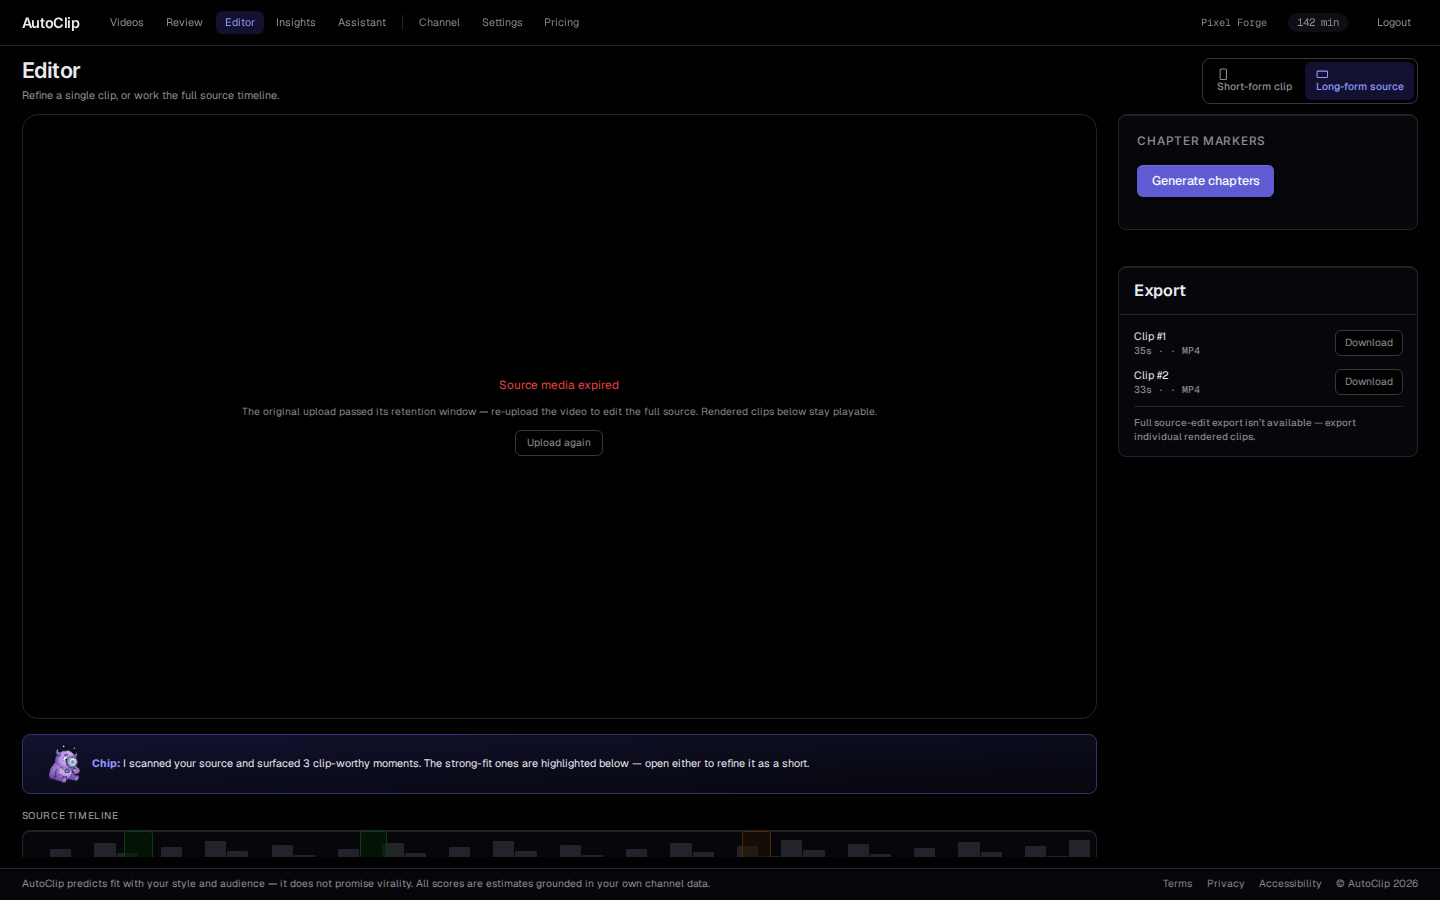
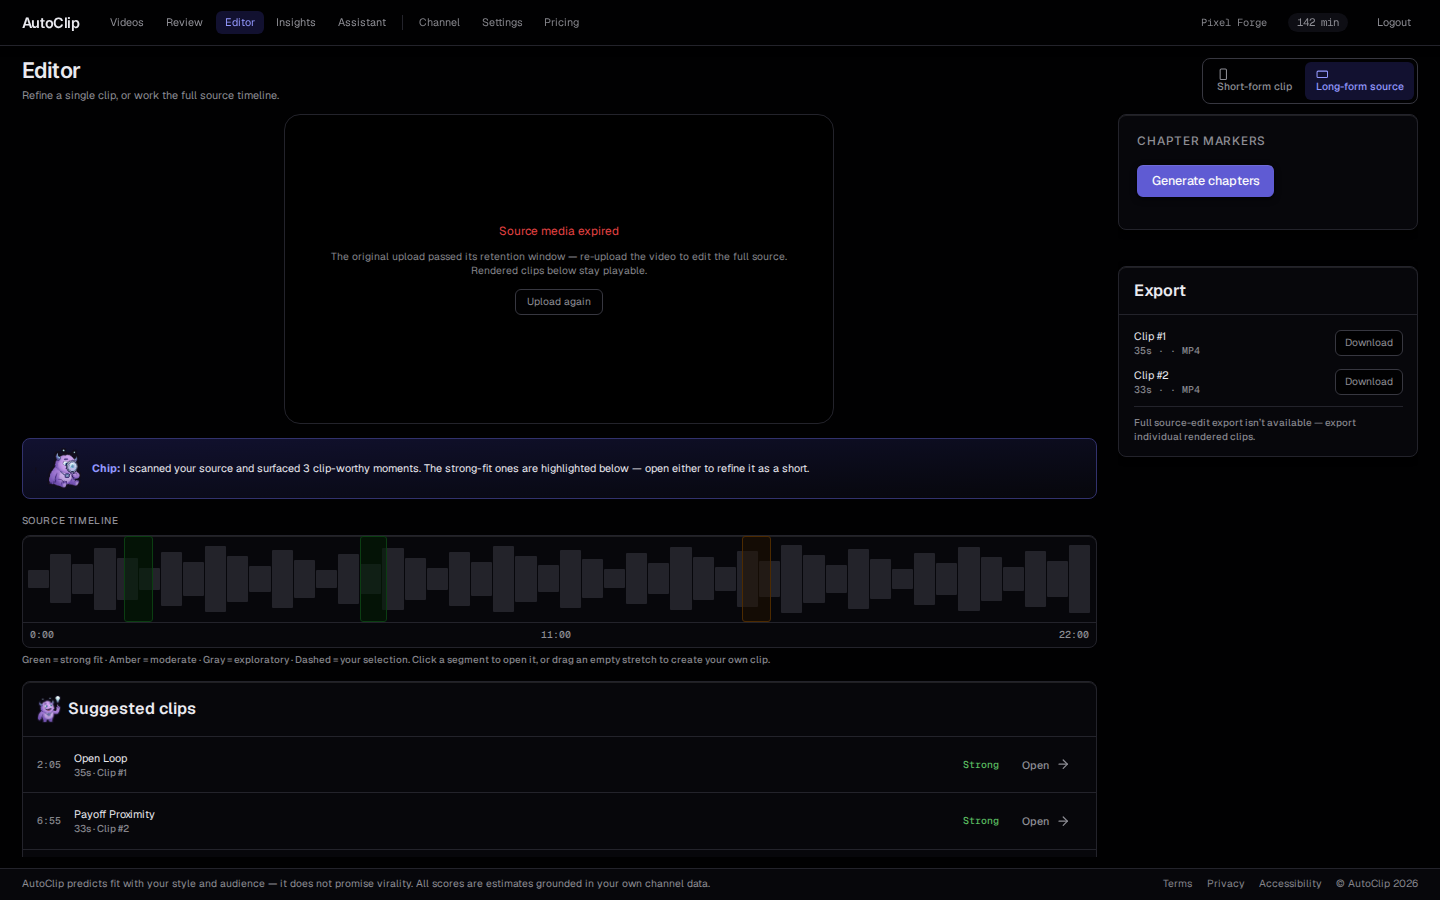
feat(389): long-form editor full-height panels
The source player, Chip callout and master timeline stay pinned; the clip lists
and full transcript scroll beneath them, and the Chapters/Export rail scrolls
independently. The timeline you drag selections against can no longer leave the
viewport — which was the whole point of the shell.

Also fixes a defect the shell exposed: the source player (and its
"Source media expired" placeholder) was `aspect-video w-full`, so at the ~1075px
column width it rendered 605px tall, pushing the master timeline to the bottom
edge and the clip lists entirely off-screen. SOURCE_PLAYER_W bounds its height
the same way the 9:16 players are bounded — 16/9 instead of 9/16. Master
timeline top goes from y=831 to y=536 at 1440x900.

FullTranscriptPanel's max-h-80 is lifted at lg only: inside the shell it already
sits in a scroll region, so the cap would double-scroll. Below lg the page
scrolls and the cap still applies.

diff --git a/frontend/src/components/editor/LongFormEditor.tsx b/frontend/src/components/editor/LongFormEditor.tsx
@@ -3,6 +3,7 @@ import { Link } from 'react-router-dom'
 import { useMutation, useQuery, useQueryClient } from '@tanstack/react-query'
 import { api, ApiError } from '@/lib/api'
 import { cn } from '@/lib/utils'
+import { SOURCE_PLAYER_W } from '@/lib/toolLayout'
 import { fitTier } from '@/lib/fit'
 import { fmtClock, parseClock } from '@/lib/timecode'
 import type { FitTier } from '@/components/ui/fit-badge'
@@ -321,14 +322,14 @@ export function LongFormEditor({
   return (
     <div
       className={cn(
-        'grid grid-cols-1 items-start gap-6 lg:grid-cols-[minmax(0,1fr)_300px]',
-        // Scrolls as one region inside the clipped shell; the per-panel split is
-        // the next commit.
-        'lg:overflow-y-auto',
+        'grid grid-cols-1 gap-6 lg:grid-cols-[minmax(0,1fr)_300px] lg:grid-rows-[minmax(0,1fr)]',
         className,
       )}
     >
-      <div className="flex flex-col gap-4">
+      {/* The source player and its master timeline stay pinned; only the lists
+          below them scroll, so the timeline you are selecting against cannot
+          leave the viewport (Issue 389). */}
+      <div className="flex min-h-0 flex-col gap-4">
         {sourceAvailable ? (
           <VideoPlayer
             ref={playerRef}
@@ -338,10 +339,15 @@ export function LongFormEditor({
             transport
             onTimeChange={setCurrentTime}
             onError={() => setStreamError(true)}
-            className="w-full"
+            className={cn(SOURCE_PLAYER_W, 'mx-auto shrink-0')}
           />
         ) : (
-          <div className="flex aspect-video w-full flex-col items-center justify-center gap-3 rounded-xl border border-default bg-black/60 px-6 text-center text-sm text-subtle">
+          <div
+            className={cn(
+              SOURCE_PLAYER_W,
+              'mx-auto flex aspect-video shrink-0 flex-col items-center justify-center gap-3 rounded-xl border border-default bg-black/60 px-6 text-center text-sm text-subtle',
+            )}
+          >
             <span className="text-danger">Source media expired</span>
             <span className="text-xs">
               The original upload passed its retention window — re-upload the video to edit the
@@ -357,7 +363,7 @@ export function LongFormEditor({
         )}
 
         {/* Chip scan callout */}
-        <div className="flex items-center gap-3 rounded-md border border-accent-border bg-gradient-to-br from-accent-soft to-surface px-3.5 py-2.5">
+        <div className="flex shrink-0 items-center gap-3 rounded-md border border-accent-border bg-gradient-to-br from-accent-soft to-surface px-3.5 py-2.5">
           <Chip pose="magnify" size={46} className="flex-shrink-0" />
           <div className="text-small leading-relaxed text-fg">
             <strong className="text-accent-text">Chip:</strong> I scanned your source and surfaced{' '}
@@ -382,6 +388,14 @@ export function LongFormEditor({
           />
         )}
 
+        {/* Everything below the timeline is a list — it scrolls, the instrument
+            above it does not. No tabIndex needed: every row carries an Open or
+            seek button, which already satisfies scrollable-region-focusable. */}
+        <section
+          data-tool-scroll
+          aria-label="Source clips and transcript"
+          className="flex min-h-0 flex-1 flex-col gap-4 lg:overflow-y-auto"
+        >
         {/* Your clips (Issue 373) — creator-made selections, honest provenance */}
         {creatorClips.length > 0 && (
           <div className="rounded-md border border-default bg-surface shadow-sm inset-shadow-highlight">
@@ -455,10 +469,15 @@ export function LongFormEditor({
           onSeek={seek}
           onClipSegment={(seg) => setPendingSelection({ start_s: seg.start_s, end_s: seg.end_s })}
         />
+        </section>
       </div>
 
       {/* Right rail: chapters (functional) + export (UI only) */}
-      <div className="flex flex-col gap-4">
+      <section
+        data-tool-scroll
+        aria-label="Chapters and export"
+        className="flex min-h-0 flex-col gap-4 lg:overflow-y-auto"
+      >
         <ChaptersPanel videoId={videoId} onChapters={setChapters} />
 
         {/* Export (Issue 373): real per-clip artifacts — every rendered clip
@@ -499,7 +518,7 @@ export function LongFormEditor({
             </p>
           </div>
         </div>
-      </div>
+      </section>
     </div>
   )
 }

diff --git a/frontend/src/lib/toolLayout.ts b/frontend/src/lib/toolLayout.ts
@@ -36,3 +36,15 @@ export const EDITOR_PLAYER_W = 'w-[min(30rem,calc((100dvh_-_30.5rem)*0.5625))]'
  * at 1440×900: 773px row, so the player gets 486px of height.
  */
 export const REVIEW_PLAYER_W = 'w-[min(30rem,calc((100dvh_-_29.5rem)*0.5625))]'
+
+/**
+ * Long-form SOURCE player width. 1.7778 = 16/9, so this bounds a landscape
+ * player's height the same way — X = 41rem leaves room for the Chip callout, the
+ * master timeline and the clip lists below it.
+ *
+ * Without this the placeholder/player is `aspect-video w-full`: at the ~1075px
+ * column width that is 605px tall, which pushes the master timeline to the
+ * bottom edge of the viewport and the clip lists entirely off-screen. `min(100%)`
+ * keeps it from ever exceeding its column on a short, wide viewport.
+ */
+export const SOURCE_PLAYER_W = 'w-[min(100%,calc((100dvh_-_41rem)*1.7778))]'

diff --git a/frontend/src/components/editor/FullTranscriptPanel.tsx b/frontend/src/components/editor/FullTranscriptPanel.tsx
@@ -64,7 +64,10 @@ export function FullTranscriptPanel({
               className="h-9 w-full rounded-sm border border-strong bg-bg px-3 text-small text-fg placeholder:text-subtle focus:border-accent focus:outline-none"
             />
           </div>
-          <div className="max-h-80 overflow-y-auto">
+          {/* Issue 389: inside the tool shell this panel already sits in a
+              scrolling region, so a second capped scroller would double-scroll.
+              The cap stays below lg, where the page itself scrolls. */}
+          <div className="max-h-80 overflow-y-auto lg:max-h-none lg:overflow-y-visible">
             {visible.length === 0 ? (
               <p className="px-4 py-4 text-small text-subtle">No matches for “{query}”.</p>
             ) : (
